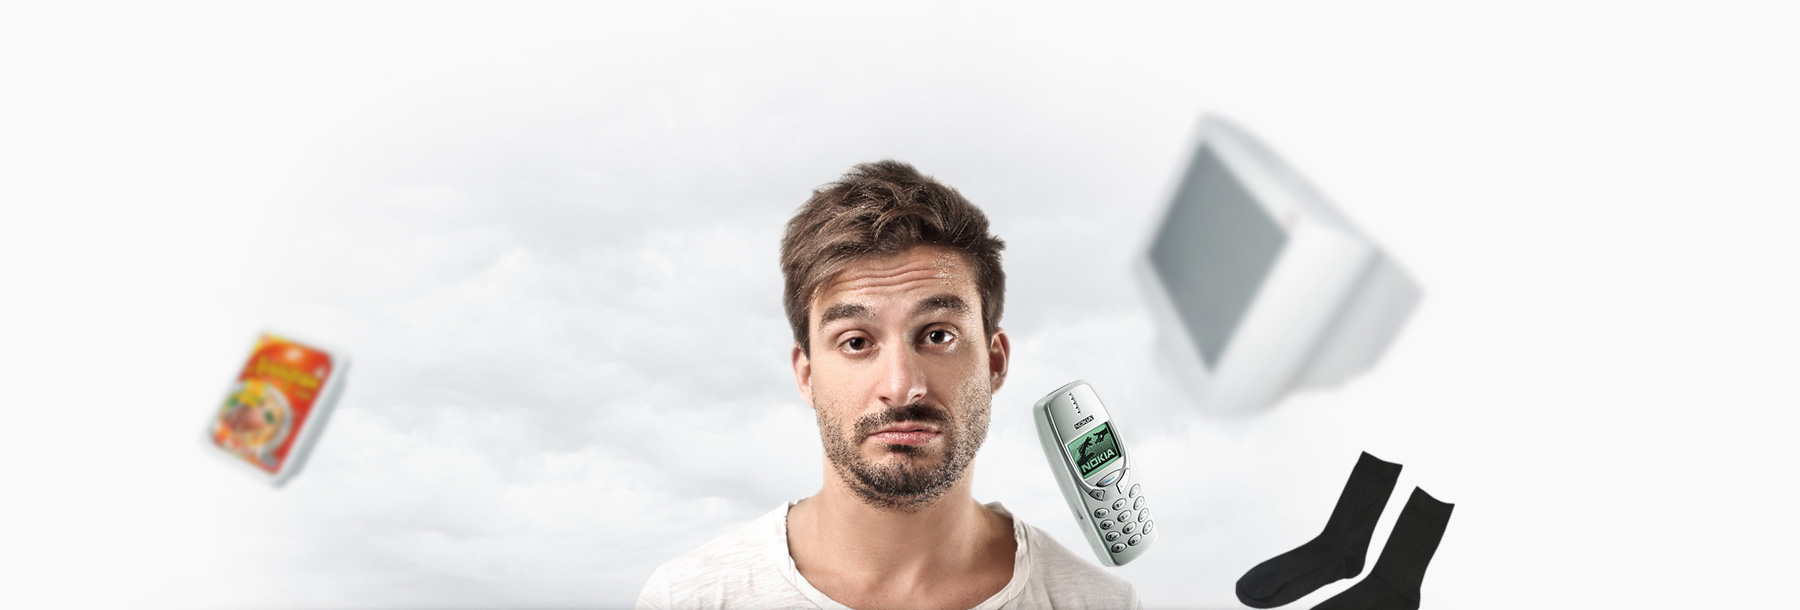
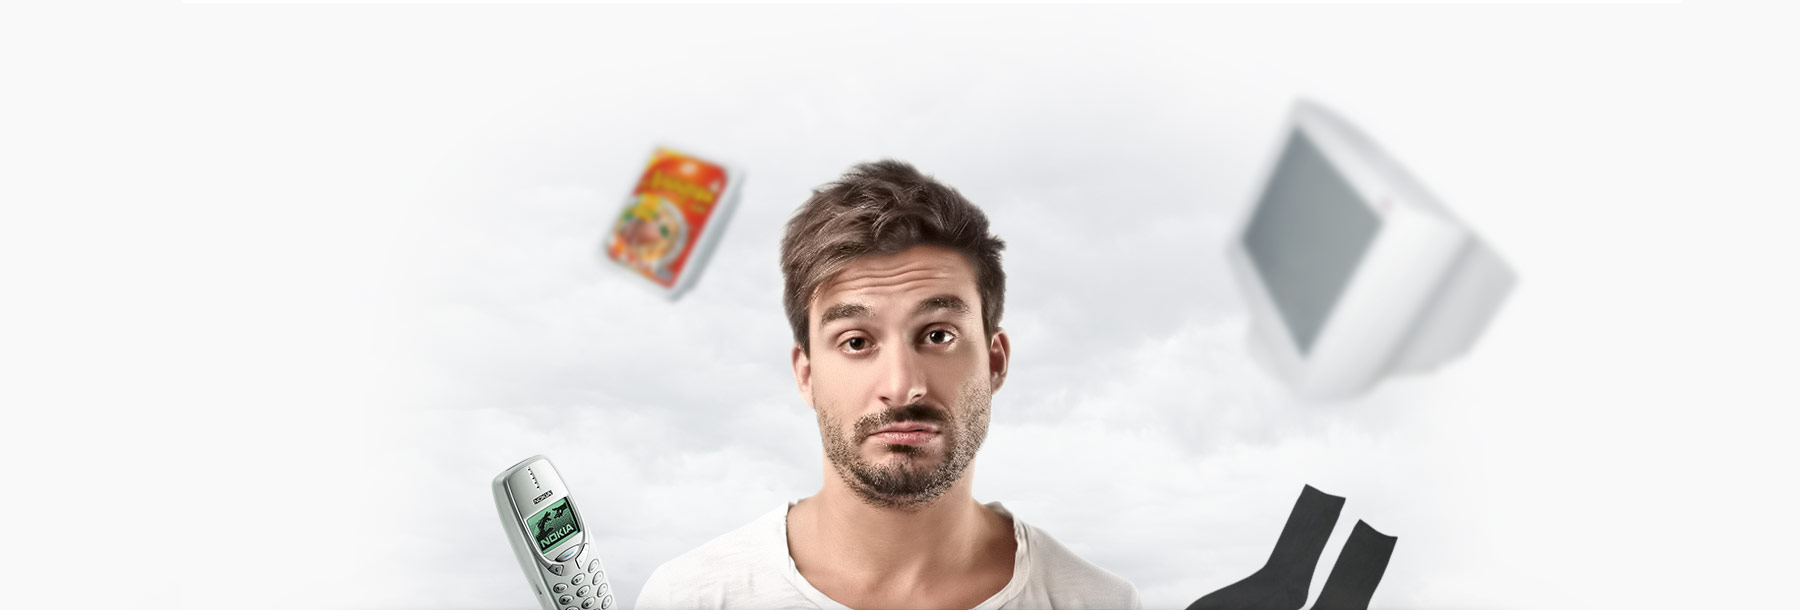
Ver. 4.7
Good-bad photos changed. Slider minor js fixes

diff --git a/js/scripts.js b/js/scripts.js
@@ -223,45 +223,45 @@ $(document).ready(function () {
   $(".way-block .tooltip-name-1, .way-block .tooltip-anchor-1").click(function() {
     $(".way-tooltip-popup").fadeOut(150);
     $("#way-slider").slider( "value", 0 );
-    $(".way-slider-wrapper").css("background-position","0 0");
     $("#way-tooltip-1").show().css("opacity",0).css("margin-bottom",-55).animate({
       marginBottom: 0,
       opacity:1
     },300);
-    $(".way-slider-pic").css("background-position","0 0");
+    $(".way-slider-wrapper").css("background-position","0 0");
+        $(".way-slider-pic").css("background-position","0 0");
   })
   
   $(".way-block .tooltip-name-2, .way-block .tooltip-anchor-2").click(function() {
     $(".way-tooltip-popup").fadeOut(150);
     $("#way-slider").slider( "value", 300 );
-    $(".way-slider-wrapper").css("background-position","0 0");
     $("#way-tooltip-2").show().css("opacity",0).css("margin-bottom",-55).animate({
       marginBottom: 0,
       opacity:1
     },300);
-    $(".way-slider-pic").css("background-position","0 0");
+    $(".way-slider-wrapper").css("background-position","0 0");
+    $(".way-slider-pic").css("background-position","0 -294px");
   })
   
   $(".way-block .tooltip-name-3, .way-block .tooltip-anchor-3").click(function() {
     $(".way-tooltip-popup").fadeOut(150);
     $("#way-slider").slider( "value", 600 );
-    $(".way-slider-wrapper").css("background-position","0 0");
     $("#way-tooltip-3").show().css("opacity",0).css("margin-bottom",-55).animate({
       marginBottom: 0,
       opacity:1
     },300);
-    $(".way-slider-pic").css("background-position","0 0");
+    $(".way-slider-wrapper").css("background-position","0 0");
+    $(".way-slider-pic").css("background-position","0 -588px");
   })
   
   $(".way-block .tooltip-name-4, .way-block .tooltip-anchor-4").click(function() {
     $(".way-tooltip-popup").fadeOut(150);
     $("#way-slider").slider( "value", 900 );
-    $(".way-slider-wrapper").css("background-position","0 0");
     $("#way-tooltip-4").show().css("opacity",0).css("margin-bottom",-55).animate({
       marginBottom: 0,
       opacity:1
     },300);
-    $(".way-slider-pic").css("background-position","0 0");
+    $(".way-slider-wrapper").css("background-position","0 -34px");
+    $(".way-slider-pic").css("background-position","0 -882px");
   })
   
   $(".way-block .ico-novice").click(function() {
